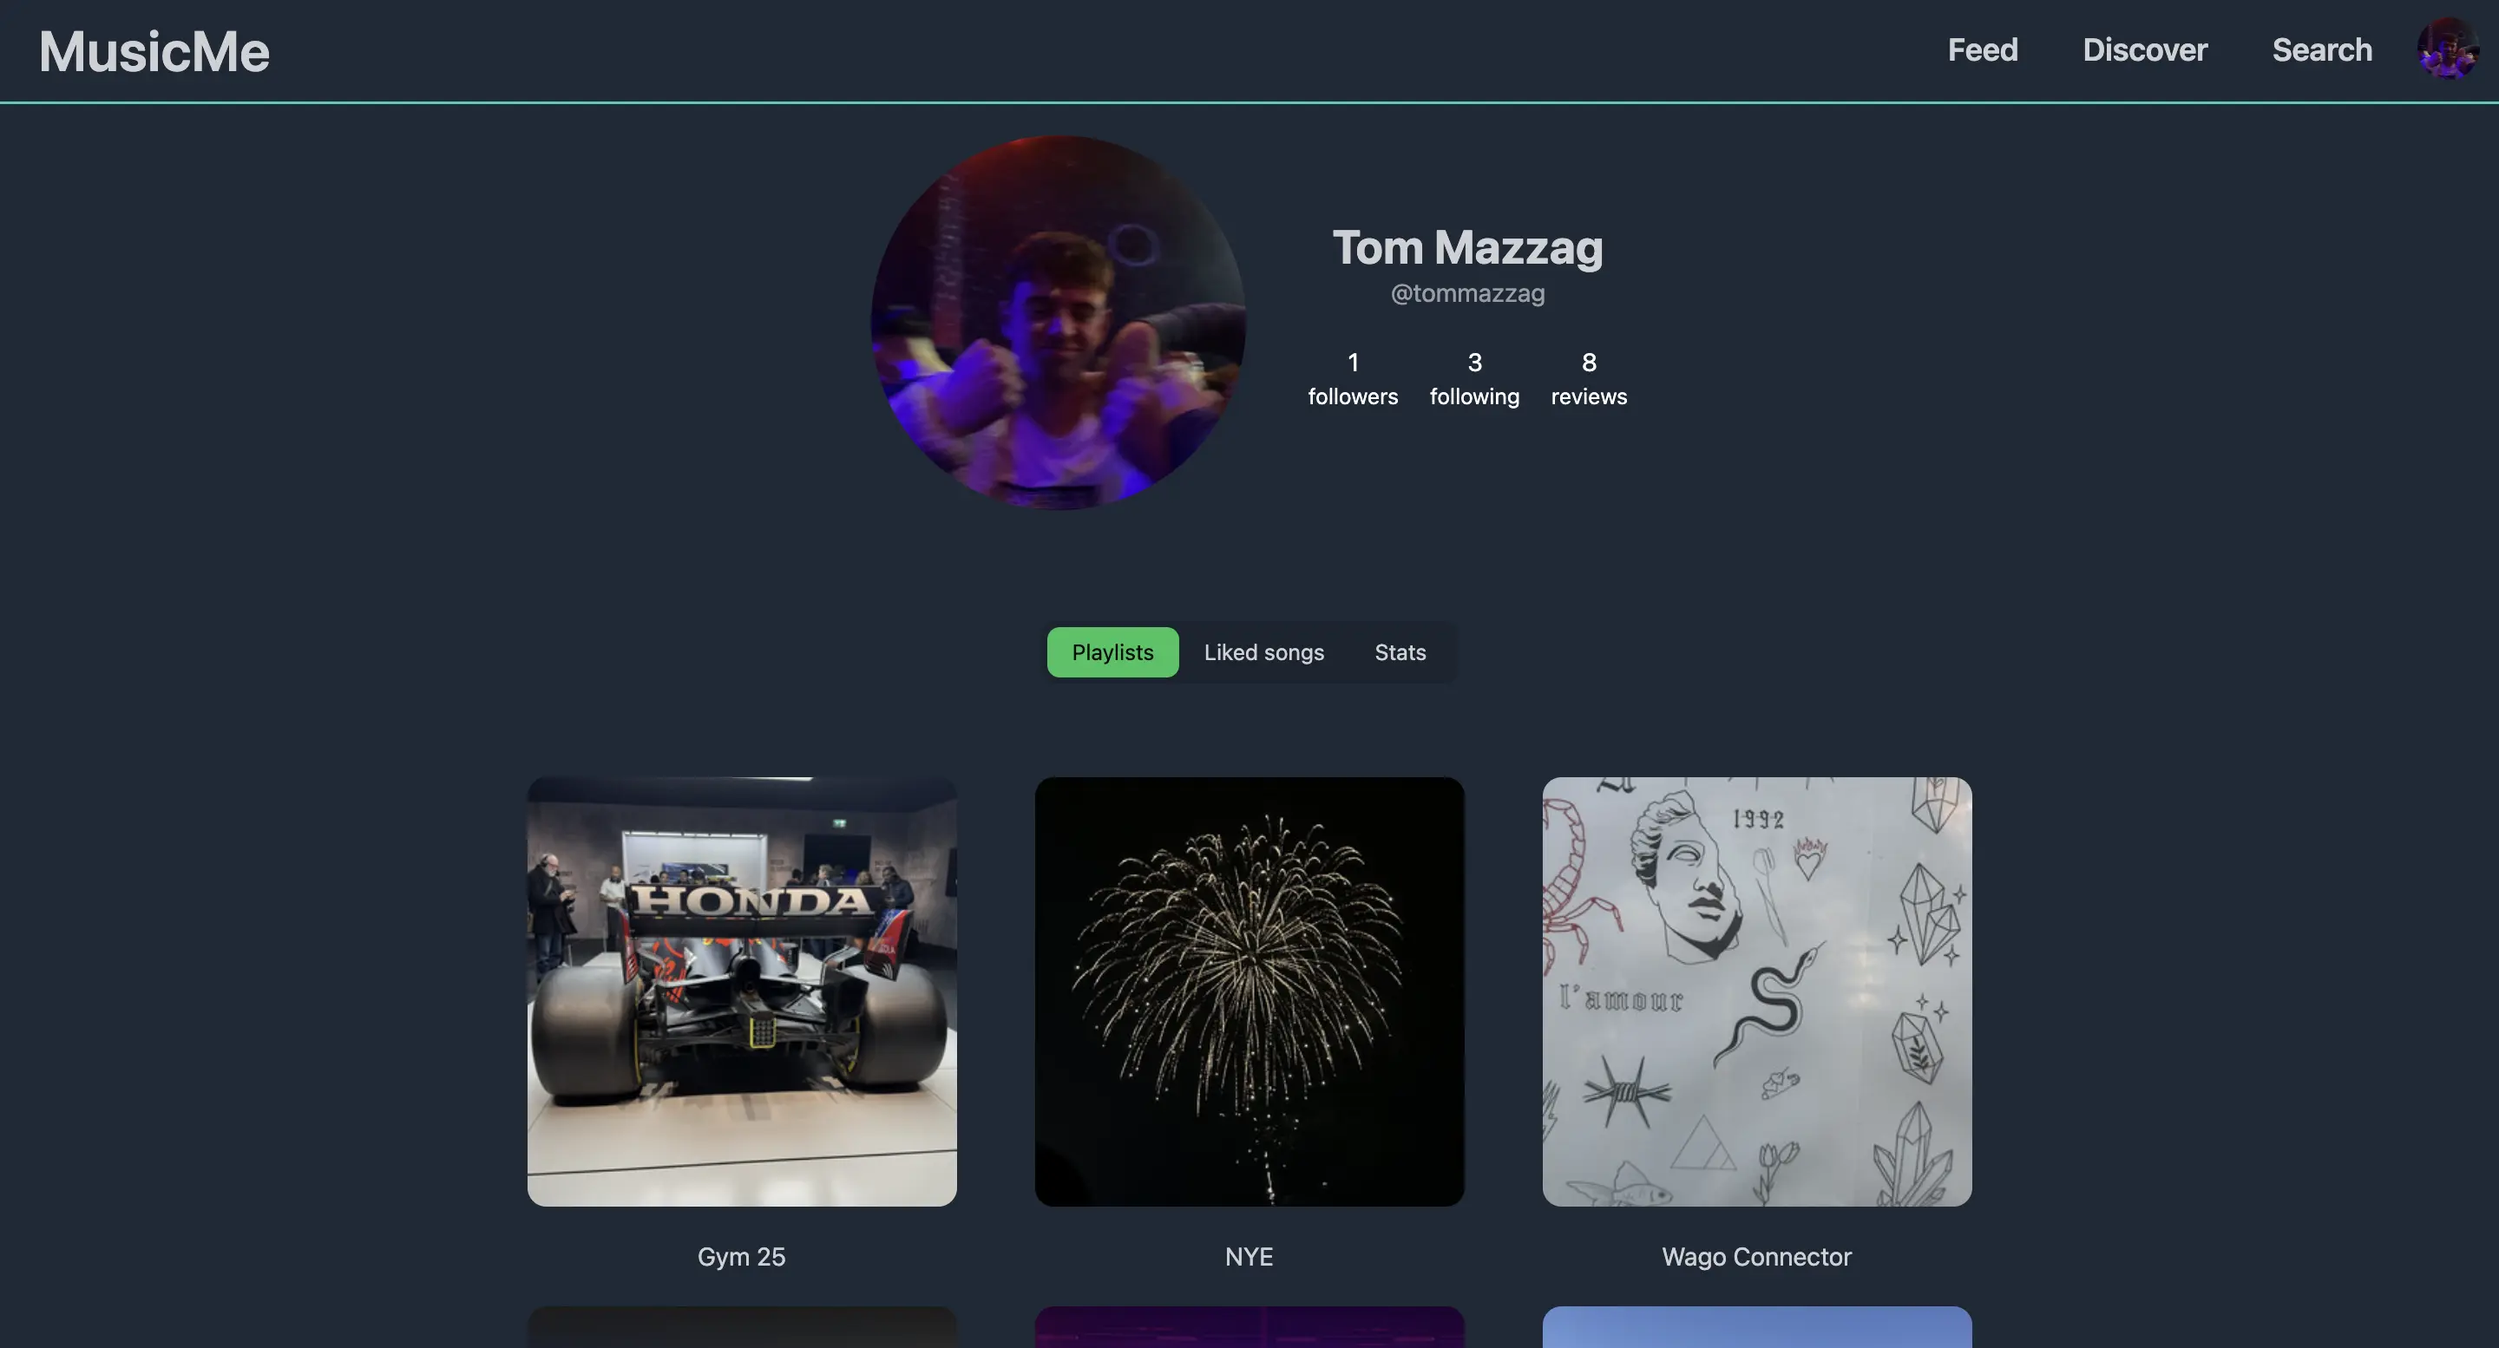
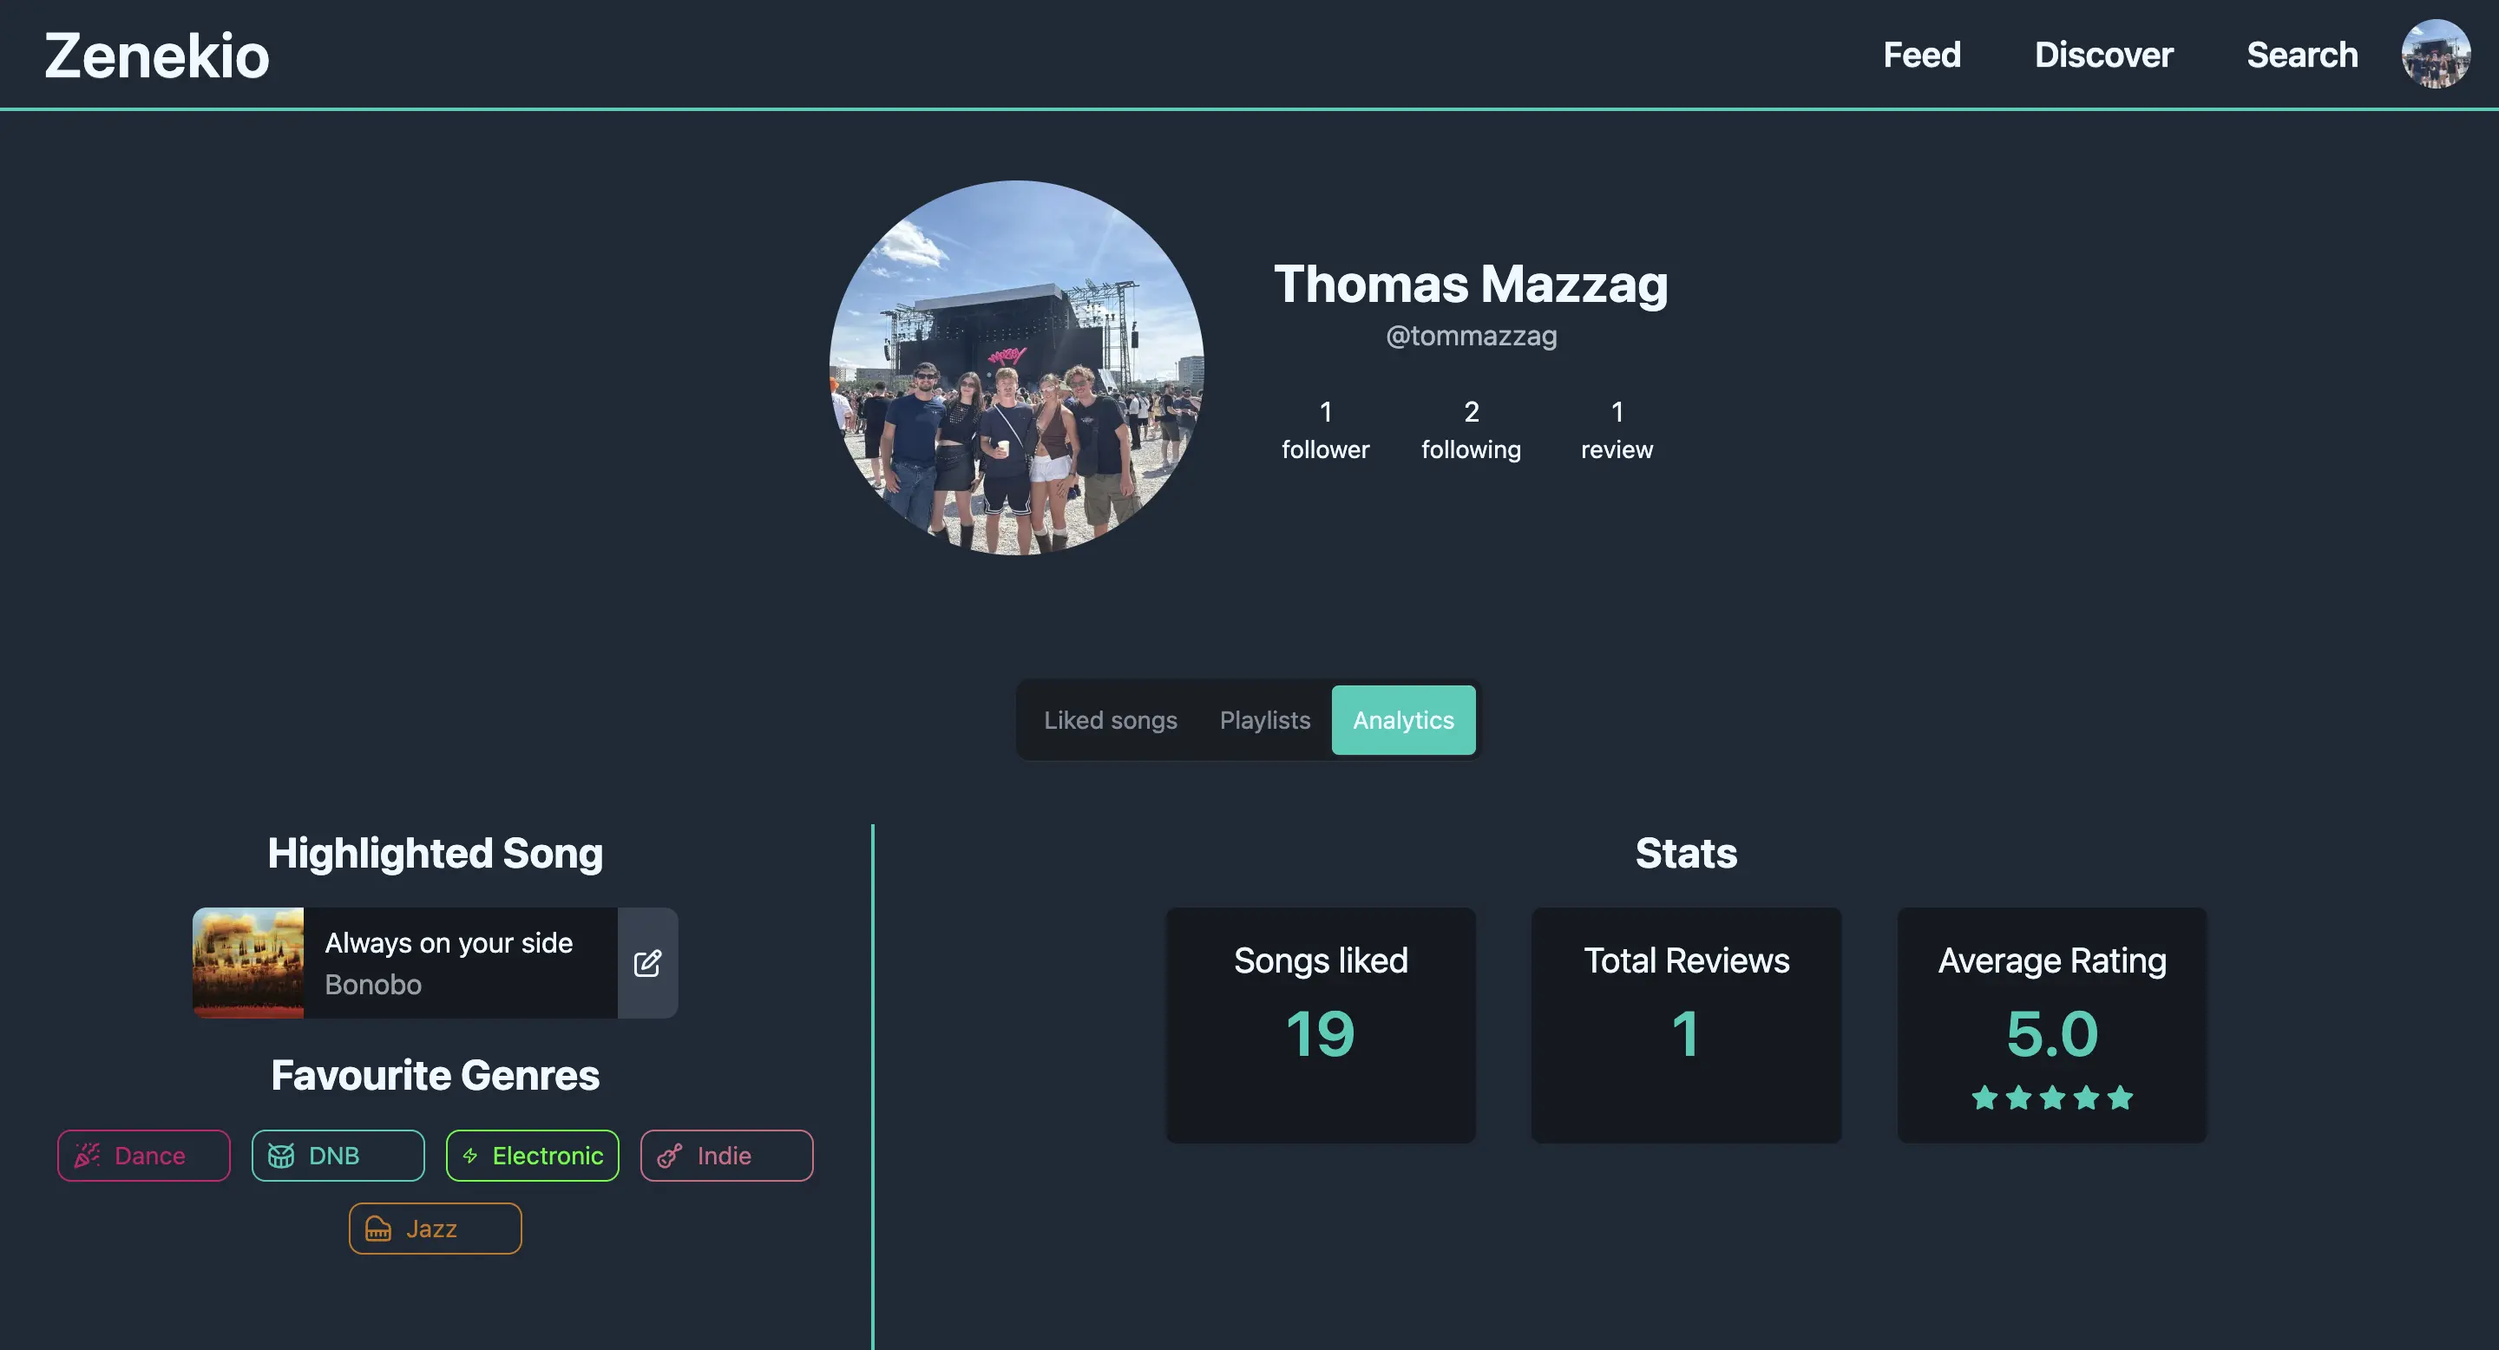
feat: allow users to update favourite genres on profile page, update about page images

diff --git a/components/Account/Tabs/components/analytics/FavouriteGenres.tsx b/components/Account/Tabs/components/analytics/FavouriteGenres.tsx
@@ -2,28 +2,84 @@
 
 import { ProfileBadges } from '@MusicMe/app/(discover)/discover/components/Genre/GenreBadges';
 import { PlatformGenres } from '@MusicMe/types/Genre';
+import { useState } from 'react';
+import { FavouriteGenresModal } from './FavouriteGenresModal';
+import clsx from 'clsx';
+
+const FAVOURITE_GENRES_MODAL_ID = 'favourite-genres-modal';
 
 interface FavouriteGenresTileProps {
   favouriteGenres: string[];
+  isCurrentUser?: boolean;
 }
 
 const isPlatformGenre = (genre: string): genre is PlatformGenres => genre in ProfileBadges;
 
-export const FavouriteGenresTile = ({ favouriteGenres }: FavouriteGenresTileProps) => {
-  const validGenres = favouriteGenres.filter(isPlatformGenre);
+export const FavouriteGenresTile = ({ favouriteGenres, isCurrentUser = false }: FavouriteGenresTileProps) => {
+  const [validGenres, setValidGenres] = useState(favouriteGenres.filter(isPlatformGenre));
+
+  const openFavouriteGenresModal = () => {
+    const modal = document.getElementById(FAVOURITE_GENRES_MODAL_ID) as HTMLDialogElement | null;
+    if (!modal) {
+      return console.log('Modal missing from page');
+    }
+    modal.showModal();
+  };
 
   if (validGenres.length === 0) {
     return (
-      <div className="flex flex-col gap-4">
+      <div className="flex flex-col gap-4 items-center">
         <h2 className="text-2xl font-bold text-center">Favourite Genres</h2>
-        <p className="text-center">No favourite genres found</p>
+        {isCurrentUser ? (
+          <div className="bg-base-200 flex items-center justify-center gap-3 rounded-lg">
+            <p className="text-center pl-4">No favourite genres found</p>
+            <button
+              type="button"
+              className="w-10 bg-gray-700 grow flex items-center rounded-r-lg cursor-pointer h-full py-3 hover:bg-gray-600"
+              onClick={openFavouriteGenresModal}
+            >
+              <i className="fa-regular fa-pen-to-square fa-small flex-1"></i>
+            </button>
+          </div>
+        ) : (
+          <p className="text-center">No favourite genres found</p>
+        )}
+        {isCurrentUser && (
+          <FavouriteGenresModal
+            modalId={FAVOURITE_GENRES_MODAL_ID}
+            currentGenres={validGenres}
+            onSave={setValidGenres}
+          />
+        )}
       </div>
     );
   }
 
   return (
     <div className="flex flex-col gap-4">
-      <h2 className="text-2xl font-bold text-center">Favourite Genres</h2>
+      <div className="group flex items-center justify-center gap-1">
+        <h2 className="text-2xl font-bold text-center">Favourite Genres</h2>
+        {isCurrentUser && (
+          <div
+            className={clsx(
+              'grid grid-cols-[0fr] overflow-hidden opacity-0 pointer-events-none',
+              'transition-[grid-template-columns,opacity] duration-500 ease-out',
+              'group-hover:grid-cols-[1fr] group-hover:opacity-100 group-hover:pointer-events-auto',
+              'group-focus-within:grid-cols-[1fr] group-focus-within:opacity-100 group-focus-within:pointer-events-auto',
+            )}
+          >
+            <div className="min-w-0">
+              <button
+                type="button"
+                className="flex items-center cursor-pointer h-full p-2 rounded-sm hover:bg-gray-600 transition-colors duration-200"
+                onClick={openFavouriteGenresModal}
+              >
+                <i className="fa-regular fa-pen-to-square fa-small flex-1"></i>
+              </button>
+            </div>
+          </div>
+        )}
+      </div>
       <div className="flex flex-wrap justify-center gap-3">
         {validGenres.map((genreKey) => (
           <a key={genreKey} href={`/genre/${genreKey}`} className="hover:scale-105 transition-transform">
@@ -31,6 +87,9 @@ export const FavouriteGenresTile = ({ favouriteGenres }: FavouriteGenresTileProp
           </a>
         ))}
       </div>
+      {isCurrentUser && (
+        <FavouriteGenresModal modalId={FAVOURITE_GENRES_MODAL_ID} currentGenres={validGenres} onSave={setValidGenres} />
+      )}
     </div>
   );
 };

diff --git a/components/Account/Tabs/components/analytics/FavouriteGenresModal.tsx b/components/Account/Tabs/components/analytics/FavouriteGenresModal.tsx
@@ -1,0 +1,86 @@
+'use client';
+
+import { ProfileBadges } from '@MusicMe/app/(discover)/discover/components/Genre/GenreBadges';
+import { updateFavouriteGenres } from '@MusicMe/lib/favouriteGenres';
+import { PlatformGenres } from '@MusicMe/types/Genre';
+import clsx from 'clsx';
+import { useState } from 'react';
+
+const platformGenreKeys = Object.keys(ProfileBadges) as PlatformGenres[];
+
+interface FavouriteGenresModalProps {
+  modalId: string;
+  onSave: (genres: PlatformGenres[]) => void;
+  currentGenres?: PlatformGenres[];
+}
+
+export const FavouriteGenresModal = ({ modalId, onSave, currentGenres = [] }: FavouriteGenresModalProps) => {
+  const [selectedGenres, setSelectedGenres] = useState<PlatformGenres[]>(currentGenres);
+  const [isSaving, setIsSaving] = useState(false);
+
+  const closeModal = () => {
+    const modal = document.getElementById(modalId) as HTMLDialogElement | null;
+    modal?.close();
+  };
+
+  const toggleGenre = (genreKey: PlatformGenres) => {
+    setSelectedGenres((current) =>
+      current.includes(genreKey) ? current.filter((key) => key !== genreKey) : [...current, genreKey],
+    );
+  };
+
+  const handleCancel = () => {
+    setSelectedGenres(currentGenres);
+    closeModal();
+  };
+
+  const handleSave = async () => {
+    setIsSaving(true);
+    try {
+      const favouriteGenres = await updateFavouriteGenres(selectedGenres);
+      onSave(favouriteGenres);
+      closeModal();
+    } catch (error) {
+      console.error('Failed to update favourite genres', error);
+    } finally {
+      setIsSaving(false);
+    }
+  };
+
+  return (
+    <dialog className="modal" id={modalId}>
+      <div className="modal-box">
+        <h3 className="text-xl font-bold text-center">Select favourite genres</h3>
+        <p className="text-center text-base-content/70 mt-1 mb-6">Choose the genres you listen to most</p>
+        <div className="grid grid-cols-2 sm:grid-cols-3 gap-4">
+          {platformGenreKeys.map((genreKey) => (
+            <button
+              key={genreKey}
+              type="button"
+              className={clsx(
+                'hover:opacity-100 transition-transform active:scale-[1.1] flex justify-center',
+                selectedGenres.includes(genreKey) ? 'opacity-100' : 'opacity-20',
+              )}
+              onClick={() => toggleGenre(genreKey)}
+            >
+              {ProfileBadges[genreKey].component}
+            </button>
+          ))}
+        </div>
+        <div className="modal-action">
+          <button type="button" className="btn" onClick={handleCancel}>
+            Cancel
+          </button>
+          <button
+            type="button"
+            className="btn btn-accent"
+            onClick={handleSave}
+            disabled={selectedGenres.length === 0 || isSaving}
+          >
+            {isSaving ? 'Saving...' : 'Save'}
+          </button>
+        </div>
+      </div>
+    </dialog>
+  );
+};

diff --git a/components/Account/TabSection.tsx b/components/Account/TabSection.tsx
@@ -8,11 +8,7 @@ import { useQuery } from '@tanstack/react-query';
 import { useEffect, useMemo, useState } from 'react';
 import { AnalyticsTab } from './Tabs/Analytics';
 import { Analytics } from '@MusicMe/types/Analytics';
-import {
-  LIKED_SONGS_CLIENT_SORT_THRESHOLD,
-  LikedSongSort,
-  LikedSongsResponse,
-} from '@MusicMe/types/LikedSong';
+import { LIKED_SONGS_CLIENT_SORT_THRESHOLD, LikedSongSort, LikedSongsResponse } from '@MusicMe/types/LikedSong';
 import { parseLikedSongSort, sortLikedSongs } from '@MusicMe/lib/likedSongs';
 
 interface TabSectionProps {
@@ -56,7 +52,7 @@ export const TabSection = ({ playlists, userId, analytics }: TabSectionProps) =>
   }, [likedSongsData?.likedSongs, likedSort, serverSortEnabled]);
 
   const paramTab = searchParams.get('activeTab') as ActiveTab | null;
-  const [activeTab, setActiveTabState] = useState<ActiveTab>(paramTab ?? 'Liked');
+  const [activeTab, setActiveTabState] = useState<ActiveTab>(paramTab ?? 'Analytics');
 
   useEffect(() => {
     const param = searchParams.get('activeTab') as ActiveTab | null;
@@ -87,6 +83,13 @@ export const TabSection = ({ playlists, userId, analytics }: TabSectionProps) =>
       <div role="tablist" className="tabs tabs-box md:mb-4">
         <a
           role="tab"
+          className={`tab ${activeTab === 'Analytics' ? 'tab-active [--tab-bg:#00cdb7]' : ''}`}
+          onClick={() => setActiveTab('Analytics')}
+        >
+          Analytics
+        </a>
+        <a
+          role="tab"
           className={`tab ${activeTab === 'Liked' ? 'tab-active [--tab-bg:#00cdb7]' : ''}`}
           onClick={() => setActiveTab('Liked')}
         >
@@ -98,13 +101,6 @@ export const TabSection = ({ playlists, userId, analytics }: TabSectionProps) =>
           onClick={() => setActiveTab('Playlists')}
         >
           Playlists
-        </a>
-        <a
-          role="tab"
-          className={`tab ${activeTab === 'Analytics' ? 'tab-active [--tab-bg:#00cdb7]' : ''}`}
-          onClick={() => setActiveTab('Analytics')}
-        >
-          Analytics
         </a>
       </div>
 

diff --git a/app/(home)/about/page.tsx b/app/(home)/about/page.tsx
@@ -4,6 +4,8 @@ import WhatIsZenekio from './components/WhatIsZenekio';
 import WhyUsePlatform from './components/WhyUsePlatform';
 import Footer from './components/Footer';
 import FutureGoals from './components/FutureGoals';
+import { Navbar } from '@MusicMe/components/Navbar/Navbar';
+import Naming from './components/Naming';
 
 export const metadata: Metadata = {
   description:
@@ -38,29 +40,12 @@ export default function AboutPage() {
         }}
       />
       <div className="flex flex-col min-h-screen">
-        <nav className="navbar border-b-2 border-accent">
-          <div className="flex-1">
-            <a href="/" className="btn btn-ghost text-xl md:text-4xl">
-              Zenekio
-            </a>
-          </div>
-          <ul className="flex-none gap-2 inline-flex list-none">
-            <li>
-              <a href="/" className="btn btn-sm md:btn-md btn-ghost md:text-xl">
-                Login
-              </a>
-            </li>
-            <li>
-              <a href="/register" className="btn btn-sm md:btn-md btn-ghost md:text-xl">
-                Sign up for the beta
-              </a>
-            </li>
-          </ul>
-        </nav>
+        <Navbar />
 
         <WhatIsZenekio />
         <WhyUsePlatform />
         <FutureGoals />
+        <Naming />
 
         <div className="flex justify-center my-5">
           <a href="/discover">

diff --git a/app/api/user/favourite-genres/route.ts b/app/api/user/favourite-genres/route.ts
@@ -1,0 +1,23 @@
+import { authenticatedRequest } from '@MusicMe/lib/backend';
+import { BACKEND_URL_SERVER } from '@MusicMe/lib/util';
+import { NextRequest, NextResponse } from 'next/server';
+
+export async function PATCH(req: NextRequest): Promise<NextResponse> {
+  const { genres } = await req.json();
+
+  if (!genres || !Array.isArray(genres) || genres.length === 0) {
+    return NextResponse.json({ error: 'Missing genres in request body' }, { status: 400 });
+  }
+
+  const response = await authenticatedRequest(`${BACKEND_URL_SERVER}/user/favourite-genres`, {
+    method: 'PATCH',
+    headers: {
+      'Content-Type': 'application/json',
+    },
+    body: JSON.stringify({ genres }),
+  });
+
+  const data = await response.json();
+
+  return NextResponse.json(data, { status: response.status });
+}

diff --git a/app/(home)/about/components/Naming.tsx b/app/(home)/about/components/Naming.tsx
@@ -1,0 +1,19 @@
+export default function Naming() {
+  return (
+    <section id="naming">
+      <div className="flex flex-col text-center gap-2 mb-8 items-center">
+        <h1 className="text-[2rem] lg:text-[3rem] leading-none">
+          Where does the name{' '}
+          <span className="bg-linear-to-r from-[#4cd7f6] to-[#4be277] bg-clip-text text-transparent">Zenekio</span> come
+          from?
+        </h1>
+
+        <div className="bg-base-300 rounded-sm px-4 py-1">
+          <p>
+            Zenekio comes from the hungarian word for music <span className="font-bold">zene</span>
+          </p>
+        </div>
+      </div>
+    </section>
+  );
+}

diff --git a/lib/favouriteGenres.ts b/lib/favouriteGenres.ts
@@ -1,0 +1,16 @@
+import { PlatformGenres } from '@MusicMe/types/Genre';
+
+export const updateFavouriteGenres = async (genres: PlatformGenres[]): Promise<PlatformGenres[]> => {
+  const response = await fetch('/api/user/favourite-genres', {
+    method: 'PATCH',
+    headers: { 'Content-Type': 'application/json' },
+    body: JSON.stringify({ genres }),
+  });
+
+  if (!response.ok) {
+    throw new Error('Failed to update favourite genres');
+  }
+
+  const data = await response.json();
+  return data.favouriteGenres;
+};

diff --git a/components/Account/Tabs/Analytics.tsx b/components/Account/Tabs/Analytics.tsx
@@ -34,7 +34,7 @@ export const AnalyticsTab = ({
             <p className="text-center">No highlighted song found</p>
           </div>
         )}
-        <FavouriteGenresTile favouriteGenres={favouriteGenres} />
+        <FavouriteGenresTile favouriteGenres={favouriteGenres} isCurrentUser={isCurrentUser} />
       </div>
 
       <div className="lg:px-8 items-center px-4 md:px-0">

diff --git a/app/(home)/about/components/FutureGoals.tsx b/app/(home)/about/components/FutureGoals.tsx
@@ -14,7 +14,7 @@ export default function FutureGoals() {
           <li>Song suggestions using AI/ML</li>
         </ul>
       </TextTile>
-      <ImageTile src={'/discover.webp'} width={3802} height={1064} />
+      <ImageTile src={'/todaysStats.webp'} width={3802} height={1064} />
     </div>
   );
 }
